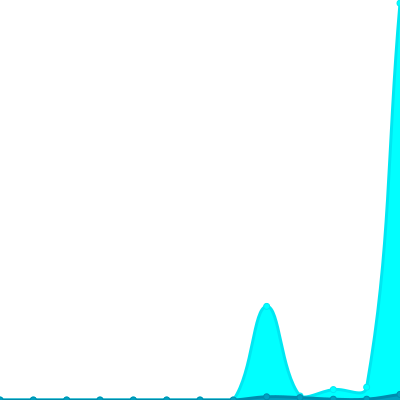
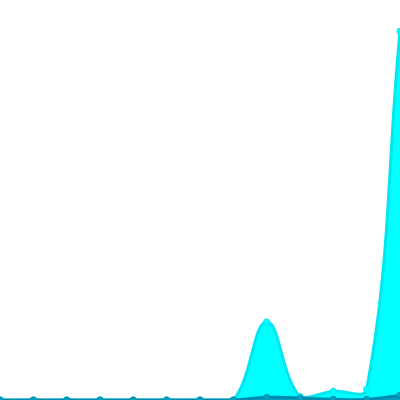
Update views

diff --git a/readme/613868422/year.md b/readme/613868422/year.md
@@ -26,7 +26,7 @@
 			<code>7</code>
 		</td>
 		<td>
-			<code>496</code>
+			<code>553</code>
 		</td>
 	</tr>
 	<tr>
@@ -164,7 +164,7 @@
 </table>
 
 </details>
-<small><i>Last updated on 2024/5/16 12:36 PM UTC</i></small>
+<small><i>Last updated on 2024/5/16 6:23 PM UTC</i></small>
 
 ## ✂Copy and 📋 Paste
 ### SVG Badge

diff --git a/README.md b/README.md
@@ -277,7 +277,7 @@ The project created and maintained by [gayanvoice](https://github.com/gayanvoice
 	</tr>
 </table>
 
-<small><i>Last updated on 2024/5/16 12:37 PM UTC</i></small>
+<small><i>Last updated on 2024/5/16 6:25 PM UTC</i></small>
 
 ## ✂Copy and 📋 Paste
 ### Total Views Badge

diff --git a/readme/179843590/year.md b/readme/179843590/year.md
@@ -164,7 +164,7 @@
 </table>
 
 </details>
-<small><i>Last updated on 2024/5/16 12:37 PM UTC</i></small>
+<small><i>Last updated on 2024/5/16 6:25 PM UTC</i></small>
 
 ## ✂Copy and 📋 Paste
 ### SVG Badge

diff --git a/readme/229612747/year.md b/readme/229612747/year.md
@@ -164,7 +164,7 @@
 </table>
 
 </details>
-<small><i>Last updated on 2024/5/16 12:36 PM UTC</i></small>
+<small><i>Last updated on 2024/5/16 6:24 PM UTC</i></small>
 
 ## ✂Copy and 📋 Paste
 ### SVG Badge

diff --git a/readme/230338574/year.md b/readme/230338574/year.md
@@ -164,7 +164,7 @@
 </table>
 
 </details>
-<small><i>Last updated on 2024/5/16 12:37 PM UTC</i></small>
+<small><i>Last updated on 2024/5/16 6:25 PM UTC</i></small>
 
 ## ✂Copy and 📋 Paste
 ### SVG Badge

diff --git a/readme/249761940/year.md b/readme/249761940/year.md
@@ -164,7 +164,7 @@
 </table>
 
 </details>
-<small><i>Last updated on 2024/5/16 12:36 PM UTC</i></small>
+<small><i>Last updated on 2024/5/16 6:24 PM UTC</i></small>
 
 ## ✂Copy and 📋 Paste
 ### SVG Badge

diff --git a/readme/262420384/year.md b/readme/262420384/year.md
@@ -164,7 +164,7 @@
 </table>
 
 </details>
-<small><i>Last updated on 2024/5/16 12:36 PM UTC</i></small>
+<small><i>Last updated on 2024/5/16 6:24 PM UTC</i></small>
 
 ## ✂Copy and 📋 Paste
 ### SVG Badge

diff --git a/readme/326823375/year.md b/readme/326823375/year.md
@@ -164,7 +164,7 @@
 </table>
 
 </details>
-<small><i>Last updated on 2024/5/16 12:36 PM UTC</i></small>
+<small><i>Last updated on 2024/5/16 6:24 PM UTC</i></small>
 
 ## ✂Copy and 📋 Paste
 ### SVG Badge

diff --git a/readme/343673171/year.md b/readme/343673171/year.md
@@ -164,7 +164,7 @@
 </table>
 
 </details>
-<small><i>Last updated on 2024/5/16 12:36 PM UTC</i></small>
+<small><i>Last updated on 2024/5/16 6:24 PM UTC</i></small>
 
 ## ✂Copy and 📋 Paste
 ### SVG Badge

diff --git a/readme/370300711/year.md b/readme/370300711/year.md
@@ -164,7 +164,7 @@
 </table>
 
 </details>
-<small><i>Last updated on 2024/5/16 12:36 PM UTC</i></small>
+<small><i>Last updated on 2024/5/16 6:24 PM UTC</i></small>
 
 ## ✂Copy and 📋 Paste
 ### SVG Badge

diff --git a/readme/380290295/year.md b/readme/380290295/year.md
@@ -164,7 +164,7 @@
 </table>
 
 </details>
-<small><i>Last updated on 2024/5/16 12:36 PM UTC</i></small>
+<small><i>Last updated on 2024/5/16 6:24 PM UTC</i></small>
 
 ## ✂Copy and 📋 Paste
 ### SVG Badge

diff --git a/readme/426155262/year.md b/readme/426155262/year.md
@@ -164,7 +164,7 @@
 </table>
 
 </details>
-<small><i>Last updated on 2024/5/16 12:36 PM UTC</i></small>
+<small><i>Last updated on 2024/5/16 6:24 PM UTC</i></small>
 
 ## ✂Copy and 📋 Paste
 ### SVG Badge
